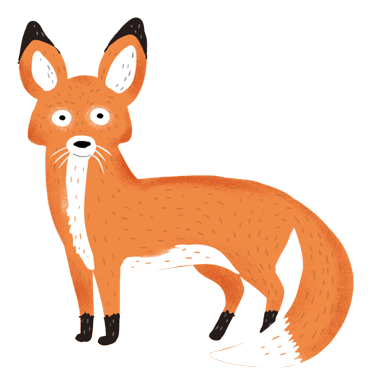
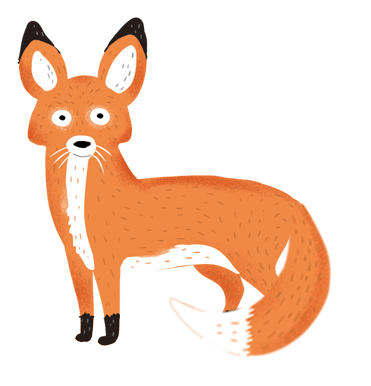
This is the new fox

Changed region(s): [[0.5633, 0.5285, 0.9784, 0.9637], [0.4447, 0.7772, 0.5633, 0.8394], [0.504, 0.8394, 0.5337, 0.8705]]

diff --git a/index.html b/index.html
@@ -305,7 +305,7 @@
       var j, jMax;
       var sequences = {
         deer: 9,
-        fox: 17,
+        fox: 20,
         owl: 15,
         penguin: 6,
         rabbit: 8,
